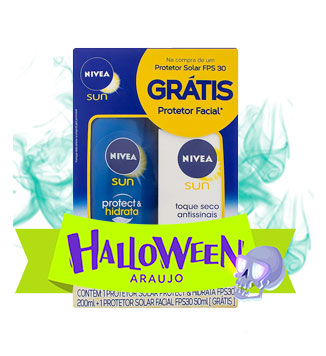
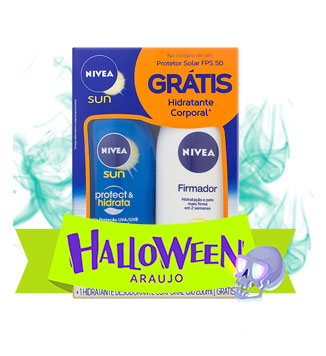
-

Changed region(s): [[0.2147, 0.1236, 0.7362, 0.6489], [0.2147, 0.8034, 0.7362, 0.8652]]

diff --git a/buscarid/2017/10/halloween/25.html b/buscarid/2017/10/halloween/25.html
@@ -637,7 +637,7 @@
 					<!-- CTA -->
 					<tr>
 						<td align="left" colspan="3" valign="top">
-							<a href="http://www.araujo.com.br/protetor-solar-nivea-sun-protect---hidrata-fps-30-locao-200ml---gratis-protetor-solar-facial-nivea-sun-toque-seco-antissinais-fps-30-locao/p?utm_source=CRMdito&utm_medium=email&utm_campaign=email-mkt-halloween-25102017&utm_term=Kit-Nivea-Sun-Protect-Hidrata-FPS-50#sku=846376" target="_blank">
+							<a href="http://www.araujo.com.br/protetor-solar-nivea-sun-protect---hidrata-fps-50-locao/p?utm_source=CRMdito&utm_medium=email&utm_campaign=email-mkt-halloween-25102017&utm_term=Kit-Nivea-Sun-Protect-Hidrata-FPS-50#sku=846155" target="_blank">
 								<img src="https://qd-araujo-email.github.io/buscarid/imagens/2017/10/halloween/25/comprar.jpg" width="183" height="47" border="0" alt="Comprar" title="Comprar" />
 							</a>
 						</td>
@@ -658,7 +658,7 @@
 			<!-- IMAGEM PRODUTO -->
 			<td width="20"></td>
 			<td width="326" align="center" valign="top">
-				<a href="http://www.araujo.com.br/protetor-solar-nivea-sun-protect---hidrata-fps-30-locao-200ml---gratis-protetor-solar-facial-nivea-sun-toque-seco-antissinais-fps-30-locao/p?utm_source=CRMdito&utm_medium=email&utm_campaign=email-mkt-halloween-25102017&utm_term=Kit-Nivea-Sun-Protect-Hidrata-FPS-50#sku=846376" target="_blank">
+				<a href="http://www.araujo.com.br/protetor-solar-nivea-sun-protect---hidrata-fps-50-locao/p?utm_source=CRMdito&utm_medium=email&utm_campaign=email-mkt-halloween-25102017&utm_term=Kit-Nivea-Sun-Protect-Hidrata-FPS-50#sku=846155" target="_blank">
 					<img src="https://qd-araujo-email.github.io/buscarid/imagens/2017/10/halloween/25/08.jpg" width="326" height="356" border="0" alt="Kit Nivea Sun Protect & Hidrata FPS 50" style="display:block;" />
 				</a>
 			</td>
